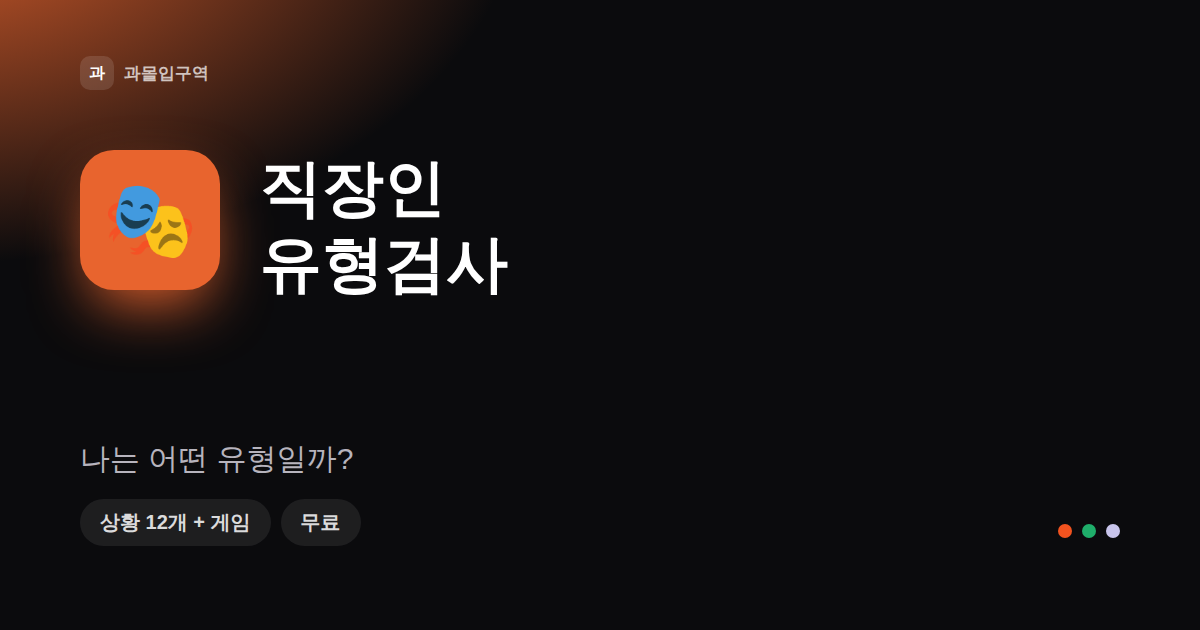
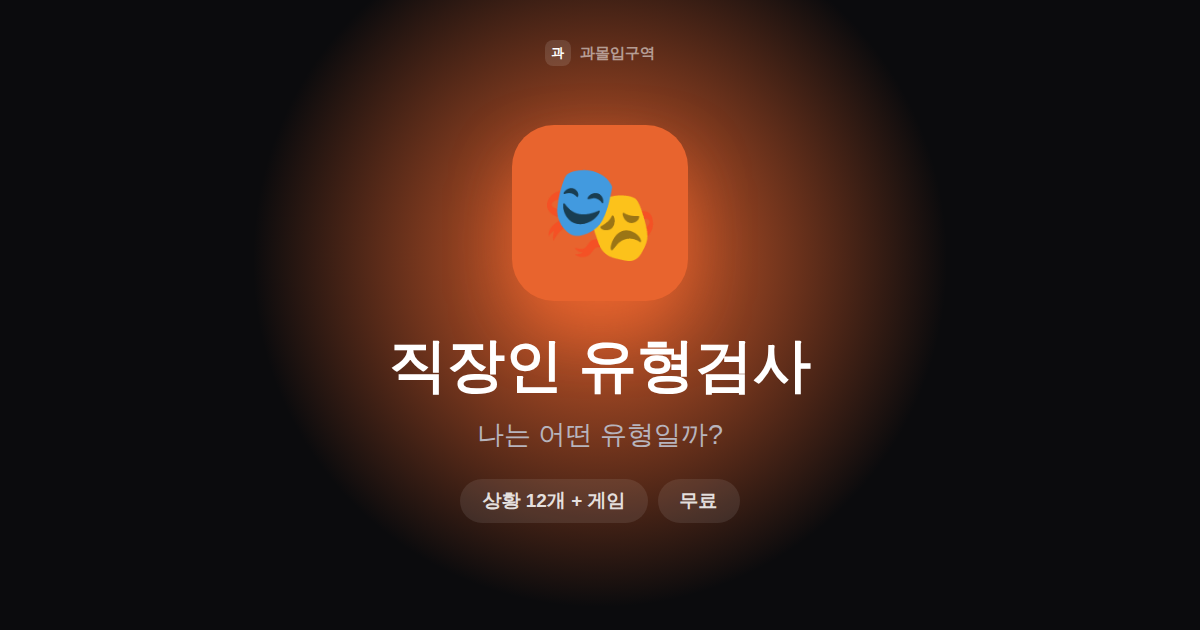
OG 이미지 3장 레이아웃을 좌측 정렬 → 중앙 정렬로 재구성
카카오톡 채팅 링크 미리보기 스크린샷으로 아이콘+제목이 잘려 보인다는
피드백을 받고 확인해보니, 카카오톡 채팅 썸네일은 og:image(1200×630)를
그대로 안 쓰고 가운데 정사각형(630×630)으로 크롭해서 보여준다. 아이콘·
헤드라인을 캔버스 왼쪽에 배치했던 첫 버전은 그 크롭 경계에 아이콘이
걸려 잘려 보였다.

이미지 생성 템플릿을 절대 위치 좌측 정렬에서 flex 세로 스택 + 수평
중앙 정렬로 바꿔, 중앙 정사각형 크롭 안에 아이콘·제목·설명·칩이 전부
들어오게 했다. 파일명은 그대로라 og-shells/*.html·test/og-shells.test.js
양쪽 다 수정 불필요.

docs/decisions/2027-h1.md D-32에 갱신 노트 추가(좌측 정렬로 되돌리지
말 것). npm test 66/66. Playwright로 전체(1200×630)와 중앙 정사각형
크롭을 시뮬레이션해 육안 확인.

Claude-Session: https://claude.ai/code/session_01MUfyAmrYJsDUJ4eeLZwMWg

diff --git a/PROGRESS.md b/PROGRESS.md
@@ -11,6 +11,23 @@
 
 ## 2026-07
 
+- **OG 이미지 3장 레이아웃을 좌측 정렬 → 중앙 정렬로 재구성** (2026-07-30):
+  - 요청 배경: 사용자가 카카오톡 채팅 링크 미리보기 스크린샷을 보내며 "아이콘+제목이 잘려
+    보인다, 저게 메인 이미지에 꽉 차게 해달라"고 지적.
+  - 원인: (버그, 좌측 정렬 설계의 부작용) 카카오톡 채팅 썸네일은 `og:image`(1200×630)를
+    그대로 안 보여주고 **가운데를 정사각형(630×630)으로 크롭**해서 보여준다. 직전 버전은
+    아이콘·헤드라인을 캔버스 왼쪽(x=80~940)에 배치했는데, 가운데 630px 크롭 영역은
+    x=[285,915]라 왼쪽에 걸쳐 있던 아이콘이 크롭 경계에서 잘려 나갔다 — 스크린샷에 찍힌
+    "아이콘이 이상하게 잘린" 증상이 정확히 이 크롭 위치와 맞아떨어졌다.
+  - 구현: `og-*.png` 생성 템플릿을 절대 위치 좌측 정렬에서 flex 세로 스택 + 가운데 정렬로
+    재작성 — 아이콘(176px, 확대)·헤드라인·설명·칩을 전부 캔버스 수평 중앙에 쌓았다. 파일명은
+    그대로(`assets/og-adhd.png`·`og-disc.png`·`og-numpath.png`)라 `og-shells/*.html`·
+    `test/og-shells.test.js` 양쪽 다 수정 불필요.
+  - 검증: Playwright로 세 이미지 각각 전체(1200×630)와 카카오 크롭을 흉내 낸 중앙
+    630×630을 같이 캡처해서, 정사각형 크롭 안에 아이콘·제목·설명·칩이 전부 잘림 없이
+    들어오는지 육안 확인. `npm test` 66/66(파일명 불변이라 영향 없음 — `og-shells.test.js`는
+    이미지 파일명만 검사하고 픽셀 내용은 안 본다는 점도 재확인).
+
 - **테스트·게임 3곳에 페이지별 OG 미리보기 추가** (2026-07-30):
   - 요청 배경: 사용자가 "OG 메타 태그 수정 요청서"로 각 테스트/게임 페이지의 `og:title`·
     `og:description`·`og:image`를 앱별로 넣고, 배포 후 카카오 디벨로퍼스 OG 캐시 삭제까지

diff --git a/CURRENT_TASK.md b/CURRENT_TASK.md
@@ -4,9 +4,12 @@
 
 ## 현재 작업
 없음. 2026-07-30: 테스트·게임 3곳(`/test/adhd`·`/test/disc`·`/game/numpath`)에 페이지별 OG
-미리보기 추가 — `og-shells/*.html` + `_redirects` rewrite 규칙(와일드카드 위) + 앱별
-`assets/og-*.png`(1200×630, 홈 카드 스타일 재사용). `test/og-shells.test.js` 신규(카드
-데이터와 셸 내용 대조). 관련 결정: `docs/decisions/2027-h1.md` D-32. 아직 main 머지 전.
+미리보기 추가(main 머지 완료) — `og-shells/*.html` + `_redirects` rewrite 규칙(와일드카드 위) +
+앱별 `assets/og-*.png`(1200×630). `test/og-shells.test.js` 신규(카드 데이터와 셸 내용 대조).
+배포 후 사용자가 카카오톡 채팅 미리보기 스크린샷으로 "아이콘+제목이 잘려 보인다"고 지적 —
+카카오톡 채팅 썸네일이 `og:image`를 가운데 정사각형(630×630)으로 크롭한다는 걸 확인하고,
+좌측 정렬이던 이미지 레이아웃을 세로 스택 + 수평 중앙 정렬로 다시 만들었다(파일명 불변이라
+셸·테스트는 안 건드림). 관련 결정: `docs/decisions/2027-h1.md` D-32(2026-07-30 갱신 포함).
 **카카오 디벨로퍼스 OG 캐시 삭제는 배포 후 수동 조치 필요** — 아래 "배포 후 확인 필요" 참고.
 
 이전(2026-07-28): DISC 문항·딜레마 선택지 중 상황과 안 맞거나 어색한 문구 3건 수정(식당 메뉴

diff --git a/docs/decisions/2027-h1.md b/docs/decisions/2027-h1.md
@@ -120,3 +120,10 @@
   정적 `<head>`만 있고 실제 방문자는 빈 화면을 보는 사고가 없는지), 셸이 없는 경로는 여전히
   전역 `index.html`을 쓰는지 확인. `curl localhost:8766/test/adhd`로 로컬에서 실제 rewrite
   응답도 직접 확인.
+- **갱신(2026-07-30)**: 처음 만든 `og-*.png`는 아이콘·헤드라인을 캔버스 왼쪽에 배치했는데,
+  카카오톡 채팅 링크 썸네일은 `og:image`를 그대로 안 쓰고 **가운데 정사각형(1200×630 중
+  630×630)으로 크롭**해서 보여준다는 걸 실제 스크린샷으로 확인 — 왼쪽에 있던 아이콘이 그
+  크롭 경계에 걸려 잘려 보였다. 이미지 생성 템플릿을 좌측 정렬에서 **세로 스택 + 수평 중앙
+  정렬**로 바꿔서, 중앙 정사각형 크롭 안에 아이콘·제목·설명·칩이 전부 들어오게 했다.
+  **재검토 조건**: 나중에 `og-*.png`를 다시 손볼 일이 있으면, 좌측/우측 정렬로 되돌리지
+  말 것 — 카카오톡 채팅 미리보기가 실제로 겪는 제약이다.
